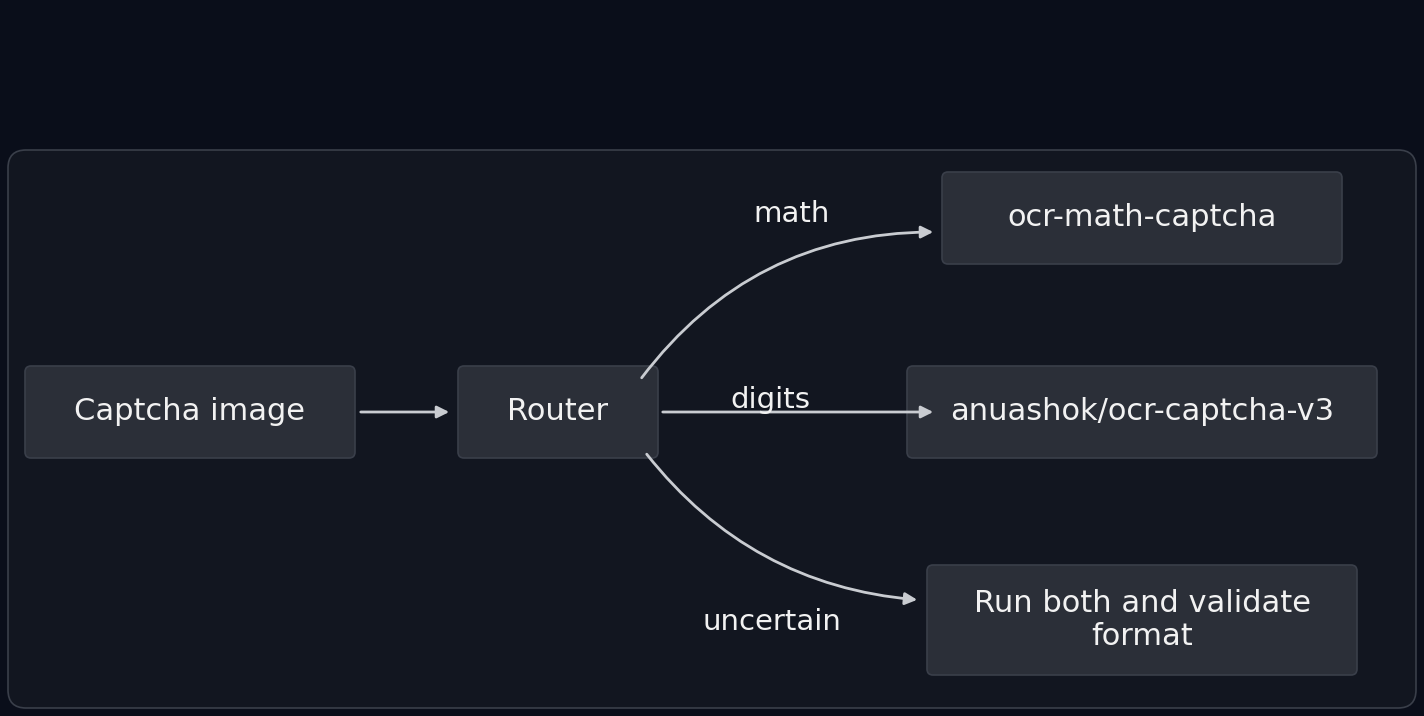
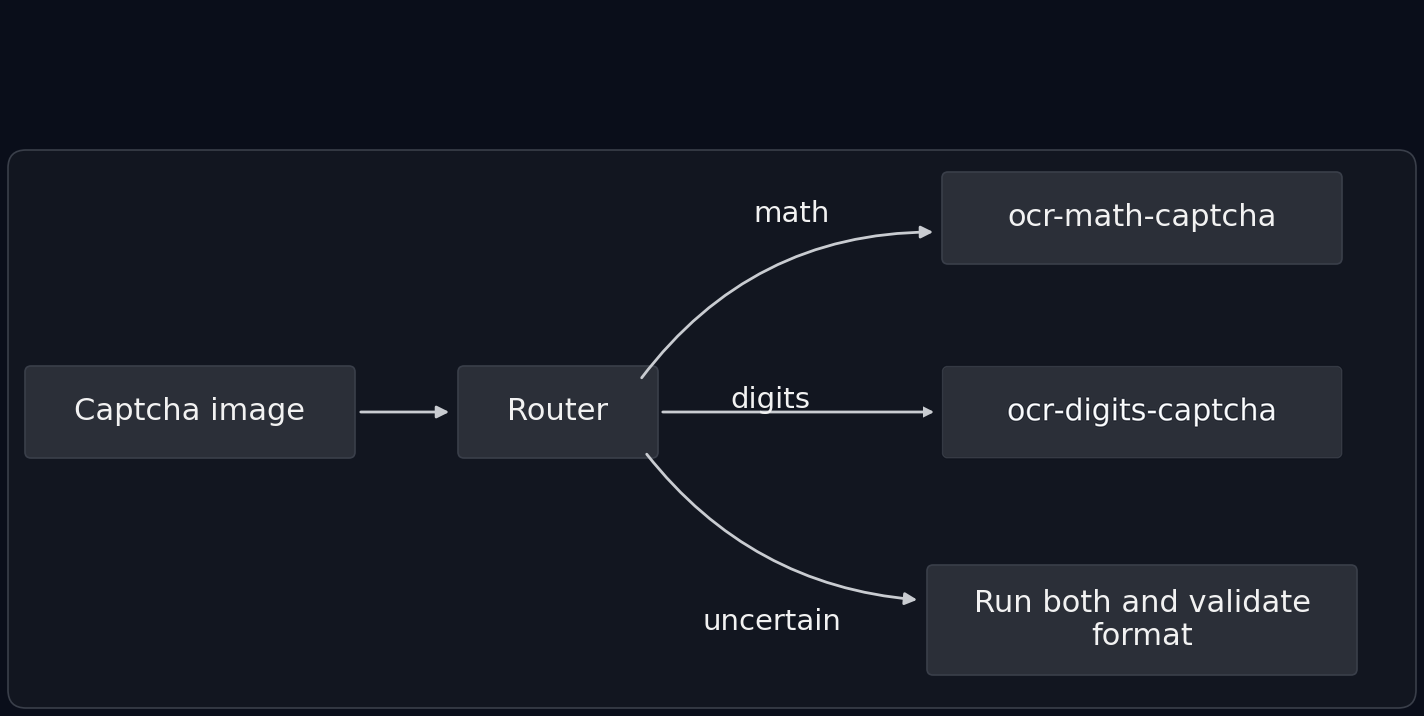
Use the fine-tuned digits expert and update the architecture diagram
pipeline_config.json now points the digit expert to
arkhabbazan/ocr-digits-captcha; the README source-model table and the
resolver-flow diagram match.

Changed region(s): [[0.618, 0.4916, 0.9888, 0.6453]]

diff --git a/README.md b/README.md
@@ -29,7 +29,7 @@ A partial math match (`a+b=` without `?`) is never accepted on its own — the m
 | --- | --- |
 | Router | [`arkhabbazan/ocr-captcha-router`](https://huggingface.co/arkhabbazan/ocr-captcha-router) |
 | Math OCR | [`arkhabbazan/ocr-math-captcha`](https://huggingface.co/arkhabbazan/ocr-math-captcha) |
-| Digit OCR | [`anuashok/ocr-captcha-v3`](https://huggingface.co/anuashok/ocr-captcha-v3) |
+| Digit OCR | [`arkhabbazan/ocr-digits-captcha`](https://huggingface.co/arkhabbazan/ocr-digits-captcha) |
 
 ## Install
 
